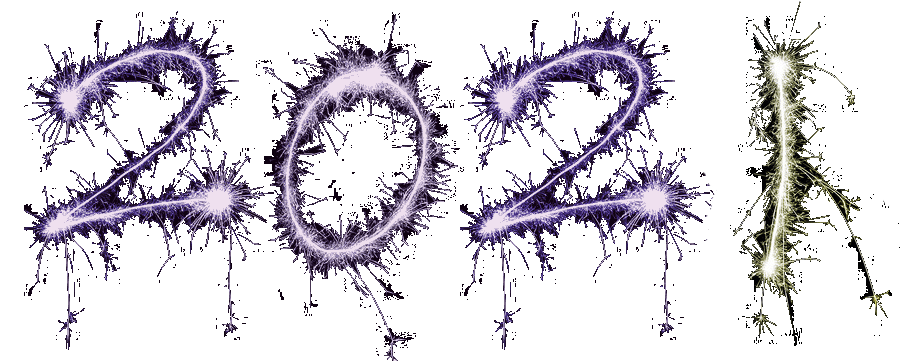
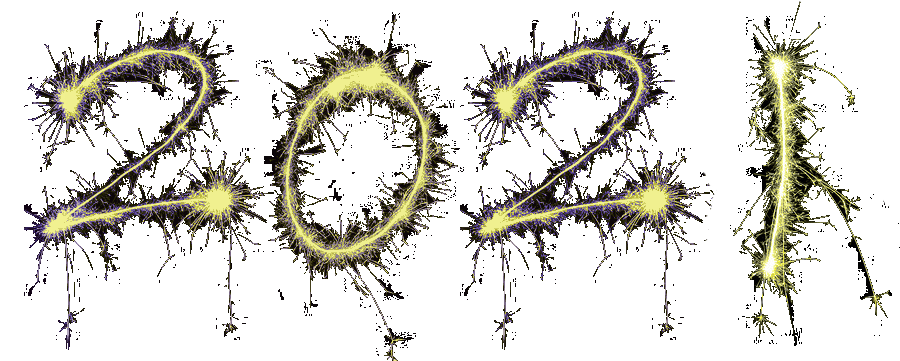
Changing color

diff --git a/src/index.html b/src/index.html
@@ -2,7 +2,7 @@
 <html lang="en">
   <head>
     <meta charset="utf-8" />
-    <title>Greetings</title>
+    <title>Create Greetings</title>
     <base href="/" />
 
     <meta name="viewport" content="width=device-width, initial-scale=1" />
